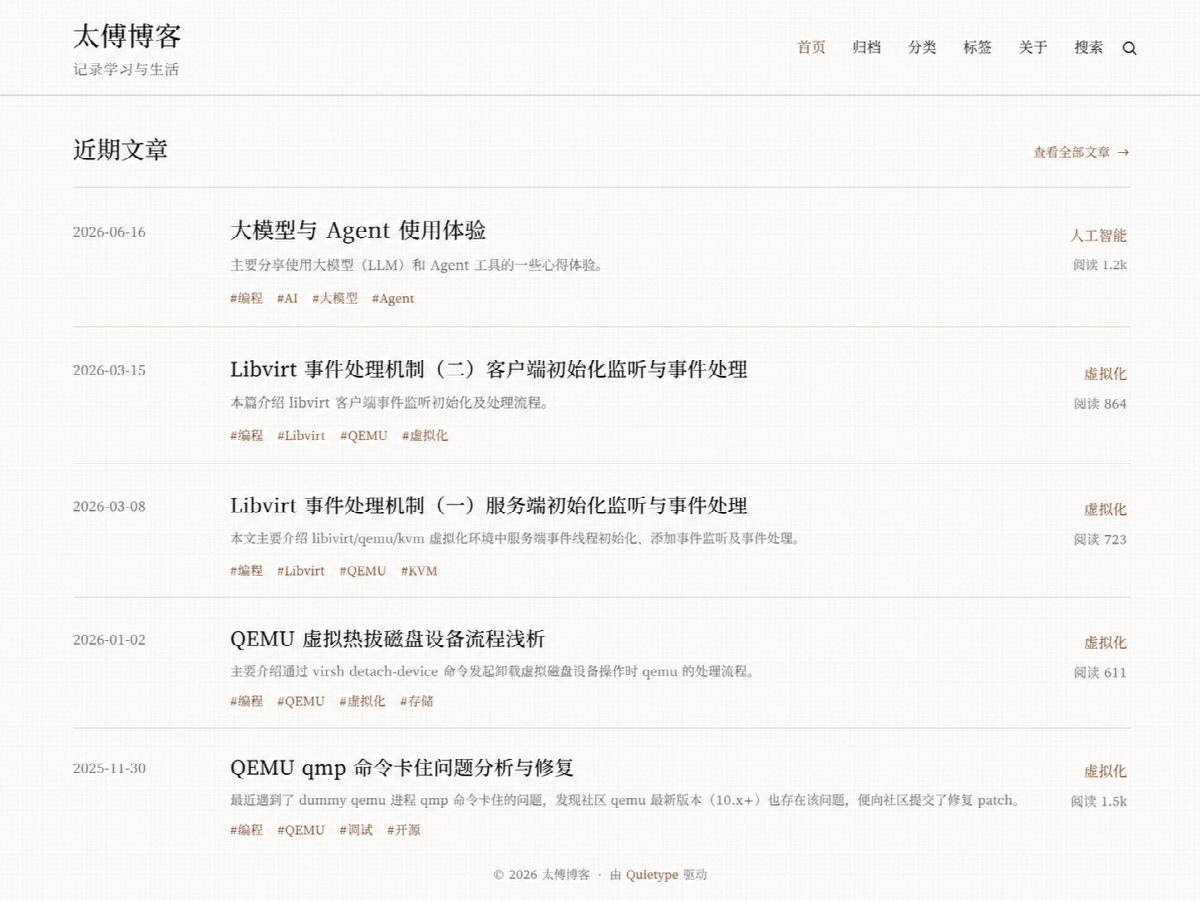
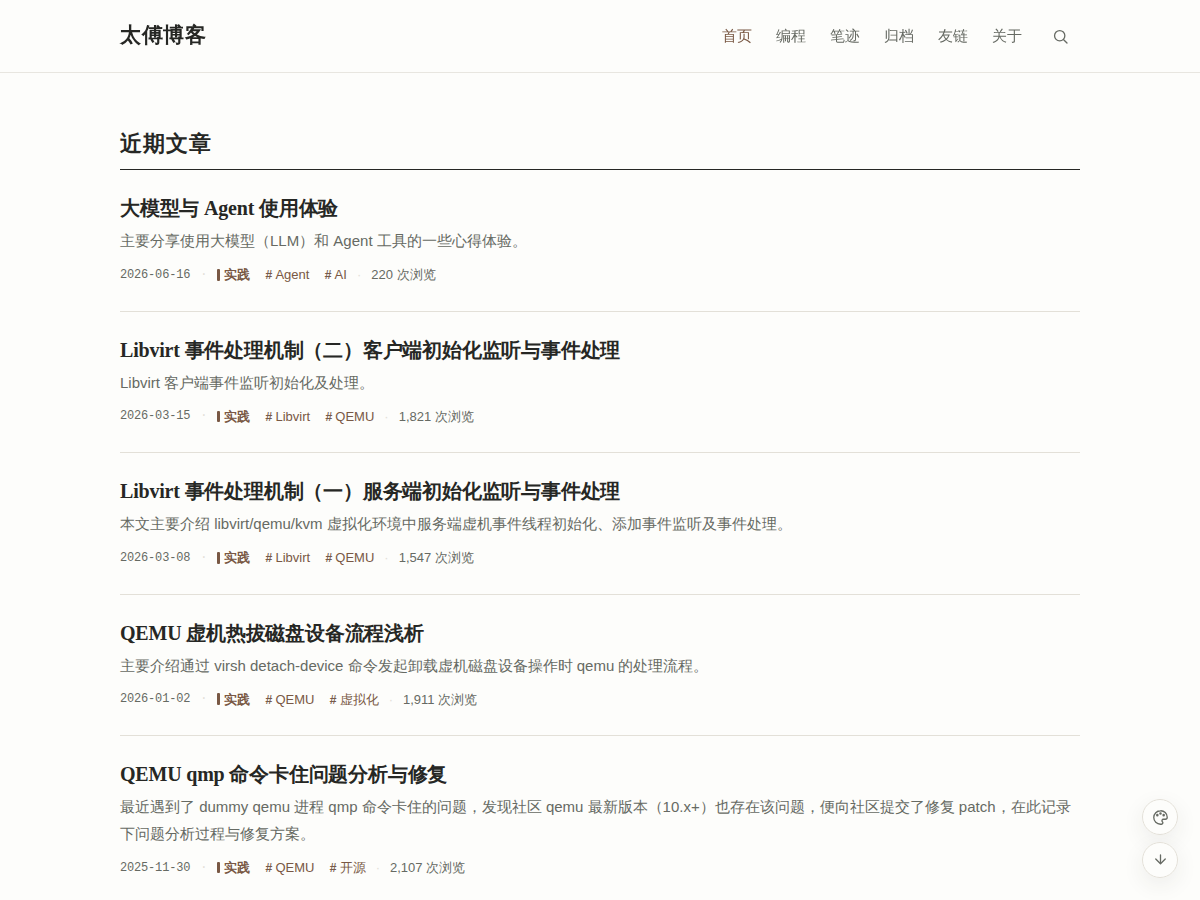
Redraw the map to Quietype
- reorganize the README around design, setup, content, access, and operations
- move code presentation guidance into its proper technical-content section
- replace the outdated preview with the current 0.9.0 homepage at a much smaller size

diff --git a/README.md b/README.md
@@ -2,15 +2,43 @@
 
 > A quiet WordPress theme for thoughtful reading.
 
-Quietype 是一款为中文长文与技术写作设计的经典 WordPress 主题。它以简约、素雅和持续阅读为核心，同时完整处理 Markdown 常见元素、技术文章目录、代码、公式与移动端导航。
+Quietype 是一款面向中文长文与技术写作的经典 WordPress 主题。它以简约、素雅、明亮为设计基调，把排版、导航和交互集中在持续阅读这件事上，同时兼顾 Markdown 技术内容、移动端体验、访问性能与站点管理。
 
 ![Quietype 首页预览](screenshot.png)
 
-## 下载与安装
+## 设计与能力
 
-推荐从 [GitHub Releases](https://github.com/taifuer/quietype/releases) 下载最新的 `quietype-<版本号>.zip`，然后在 WordPress 后台进入“外观 → 主题 → 安装主题 → 上传主题”，选择压缩包并启用。发布包已经包含顶层 `quietype/` 目录，可以直接安装，无需手工改名。
+### 阅读体验
 
-也可以将仓库克隆到 WordPress 主题目录：
+- 800px 长文阅读区与适合中英文混排的系统字体栈
+- 纸白、米杏、浅绿三种亮色背景，选择仅保存在浏览器本地
+- H2/H3 自动目录、章节永久链接、阅读进度和移动端折叠目录
+- 克制的标题层级、段落节奏、分类标签、元信息与打印样式
+- 固定移动 Header、抽屉导航、背景切换和返回顶部工具
+
+### 技术内容
+
+- Markdown 常见元素、KaTeX 公式、表格、脚注与多级列表
+- 自有亮色代码配色、语言标记、行号、复制按钮和横向滚动
+- 图片边框与图注、响应式媒体、懒加载及 PhotoSwipe 图片预览
+- 长链接、行内代码和中英文长标识符的细粒度换行处理
+
+### 站点页面与管理
+
+- 首页、文章、分类、标签、搜索、年度归档、友链、关于与 404
+- 浏览量、评论验证、文章版权声明和友链状态管理
+- 轻量 SEO、SMTP 通知、自定义登录入口与 WordPress 常用优化
+- 键盘焦点、`prefers-reduced-motion` 和基础无障碍支持
+- 不写入主题私有短代码，切换主题不会锁定正文内容
+
+## 环境要求与安装
+
+- WordPress 6.4+
+- PHP 8.0+
+
+推荐从 [GitHub Releases](https://github.com/taifuer/quietype/releases) 下载 `quietype-<版本号>.zip`，在 WordPress 后台进入“外观 → 主题 → 安装主题 → 上传主题”完成安装。发布包已经包含顶层 `quietype/` 目录。
+
+也可以直接克隆到主题目录：
 
 ```bash
 cd wp-content/themes
@@ -19,32 +47,15 @@ git clone git@github.com:taifuer/quietype.git
 
 启用后，WordPress 使用的主题目录标识为 `quietype`。
 
-## 特性
+## 主题配置
 
-- 时间清单式首页，日期、分类、标签与浏览量保持清晰层级
-- 800px 长文阅读区，适配中英文混排的系统字体栈
-- H2/H3 自动目录与章节永久链接、正文阅读进度、移动端折叠目录和阅读工具栏
-- 纸白、米杏、浅绿三种亮色阅读背景
-- 低干扰亮色代码块、语法高亮、复制按钮和表格横向滚动
-- 图片边框、图注、引用、列表、脚注、KaTeX 与响应式媒体样式
-- 可配置的文章末尾 CC BY-NC-SA 4.0 署名与来源声明
-- 正文图片原生懒加载、远程图片宽高缓存和替代文字发布检查
-- 基于 PhotoSwipe 的图片预览，支持按钮、滚轮、双击和触屏缩放
-- 分类、标签、搜索、年度归档、友链、关于、评论与 404 页面
-- 友链状态管理、分批可达性检查与人工确认的失联标记
-- 与前台一致的登录、找回密码和重置密码界面
-- 固定移动 Header、抽屉菜单、遮罩关闭与返回顶部
-- 打印样式、键盘焦点与 `prefers-reduced-motion` 支持
-- 不写入主题私有短代码，避免内容锁定
+### 设置入口
 
-## 环境要求
+Quietype 自有选项集中在“外观 → Quietype 设置”，包括站点与页脚、文章版权声明、SEO、访问、WordPress 优化、登录安全、SMTP 通知和自定义代码。站点标题、菜单和额外 CSS 继续使用 WordPress 原生界面；旧版本保存在 Customizer 中的 Quietype 设置会自动迁移。
 
-- WordPress 6.4+
-- PHP 8.0+
+统计脚本、站点验证代码等可分别写入 Head 或 Footer。设置页使用 WordPress 自带代码编辑器，只有具备 `unfiltered_html` 权限的管理员可以保存可执行代码；样式仍建议使用“外观 → 自定义 → 额外 CSS”。
 
-主题可独立使用。WP Editor.md、KaTeX 和 Prism 的兼容处理用于已有 Markdown 技术博客，并不是主题运行的强制依赖。Quietype 会检查当前正文，仅在确实存在代码、公式、图片或图表时保留对应资源；普通页面和纯文本文章不会加载整套编辑器前端依赖。
-
-## 菜单与页面
+### 菜单与页面模板
 
 主题提供两个菜单位置：
 
@@ -53,44 +64,50 @@ git clone git@github.com:taifuer/quietype.git
 
 内置页面模板：
 
-- `template-archives.php`：年度文章归档
+- `template-archives.php`：年度文章归档与标签汇总
 - `template-links.php`：友情链接
-- `list-archive.php`：兼容归档模板
-- `list-tag.php`：兼容旧站曾分配的标签模板；标签入口已整合进文章归档
+- `list-archive.php`：兼容旧归档模板
+- `list-tag.php`：兼容旧标签模板；标签入口已整合进文章归档
 
-普通页面、分类、标签、搜索和 404 使用 WordPress 模板层级自动匹配。
+普通页面、分类、标签、搜索和 404 按 WordPress 模板层级自动匹配。
 
-## 阅读背景
+### 阅读背景
 
 背景选择保存在浏览器 `localStorage` 的 `quietype-reading-bg` 中，不写 Cookie 或数据库：
 
 - `paper`：纸白
-- `warm`：米白
+- `warm`：米杏
 - `green`：浅绿
 
 Quietype 目前只提供亮色阅读背景。
 
-Quietype 自有配置集中在“外观 → Quietype 设置”，包括页脚联系方式与备案号、文章版权声明、SEO、国内访问、WordPress 优化、登录安全、SMTP 通知和自定义代码。WordPress 原生的站点标题、菜单和额外 CSS 仍使用各自原生界面。旧版本保存在 Customizer 中的 Quietype 配置会自动迁移。
+### 友链状态
 
-统计脚本和站点验证代码可在“外观 → Quietype 设置”中分别添加到 Head 或 Footer。该页面使用 WordPress 自带代码编辑器，避免脚本在 Customizer 实时预览中意外执行。只有具备 `unfiltered_html` 权限的管理员可以保存可执行代码；样式仍建议优先使用 WordPress 原生“额外 CSS”。
+主题启用期间会恢复 WordPress 原生“链接”管理入口，并提供友链状态、分组顺序和可达性检测。前台按照后台创建的链接分类动态分组，空分类不显示；“链接分类”中的数字顺序越小越靠前，留空时按名称排列，主题不写死站点专属分类。
 
-## 友链状态
+每天可轮换检测至多五条可见友链。连续失败三次只进入后台“待确认”，不会自动在前台标记失联；管理员确认后才显示低调角标，恢复为“正常”即可移除。检测结果保存在 WordPress Options 中，不修改核心链接表。
 
-Quietype 启用期间会恢复 WordPress 原生“链接”管理入口，并为站点管理员提供友链管理权限，不永久修改角色数据。链接编辑页包含 Quietype 状态框，可将友链设为正常、待确认或失联，也可立即执行一次安全的公网 HTTP(S) 检测。前台按后台创建的链接分类动态分组，空分类不显示；“链接分类”编辑页可填写数字显示顺序，数字越小越靠前，留空则按分类名称排列。主题不包含站点专属分类名称。
+## 内容渲染与代码呈现
 
-主题默认每天轮换检测至多五条可见友链；连续失败三次仅进入后台“待确认”，不会自动在前台显示失联。管理员确认并保存“失联”后，友链卡片才显示低调角标；恢复为“正常”即可移除。
+主题通过标准 `the_content` 渲染文章，不修改编辑器保存的 Markdown 原文。WP Editor.md、KaTeX 和 Prism 都不是运行主题的强制依赖；使用 WP Editor.md 时，Markdown 仍保存在 `post_content_filtered`，Quietype 只处理最终前台输出。
 
-检测开关位于“外观 → Quietype 设置 → 站点与页脚”。状态保存在 WordPress Options 中，不修改核心链接表；切换主题后数据仍保留，但其他主题不会展示 Quietype 状态。
+文章目录根据渲染后的 H2/H3 自动生成，章节锚点不会写回数据库。存在 Prism 时，它只负责语法解析、语言标记与行号；代码块的亮色 token 配色、语言标签和中文复制按钮由 Quietype 提供，不依赖远程代码样式或 ClipboardJS CDN。
+
+Quietype 会检查当前正文，只在确实存在代码、公式、图表或图片时保留相关资源；普通页面和纯文本文章不会加载整套编辑器前端依赖。
 
 ## SEO
 
-主题在没有检测到 Yoast SEO、Rank Math、All in One SEO、SEOPress 或 The SEO Framework 时输出轻量元数据：description、keywords、Open Graph、社交摘要和 Schema.org JSON-LD。文章描述按“文章 SEO 自定义描述 → 手工摘要 → 自动摘要”取值，关键词按“文章 SEO 自定义关键词 → 标签 → 分类 → 站点关键词”取值。社交图片按“特色图 → 第一张正文图片 → 默认分享图”取值。文章和页面编辑页中的“Quietype SEO”区域可以覆盖自动结果。
+未检测到 Yoast SEO、Rank Math、All in One SEO、SEOPress 或 The SEO Framework 时，Quietype 输出轻量的 description、keywords、Open Graph、社交摘要和 Schema.org JSON-LD；启用专用 SEO 插件后会停止输出整组元数据，避免重复。
 
-后台可填写站点级描述和关键词。`meta keywords` 对主流搜索引擎的作用已经很小，只作为兼容字段保留；描述、规范标题、结构化数据和可读内容更重要。启用专用 SEO 插件后，Quietype 会停止输出整组 SEO 元数据，避免重复。
+文章描述按“自定义描述 → 手工摘要 → 自动摘要”取值，关键词按“自定义关键词 → 标签 → 分类 → 站点关键词”取值，社交图片按“特色图 → 第一张正文图片 → 默认分享图”取值。文章与页面编辑页中的“Quietype SEO”区域可以覆盖自动结果。
 
-## 中国大陆访问优化
+`meta keywords` 对主流搜索引擎作用有限，仅作为兼容字段保留；规范标题、描述、结构化数据和可读内容更重要。
 
-评论头像默认将 WordPress 生成的 Gravatar 地址替换为 `https://gravatar.loli.net/avatar/`，不修改用户或评论数据。可在“外观 → Quietype 设置”中修改地址或留空以保留 WordPress 原始地址；开发者也可继续通过过滤器覆盖：
+## 访问优化
+
+主题不加载网络字体，PhotoSwipe 随主题本地分发，正文相关资源按内容条件保留。图片支持原生懒加载、远程尺寸缓存和替代文字发布检查，减少布局偏移与无效请求。
+
+评论头像默认将 WordPress 生成的 Gravatar 地址替换为 `https://gravatar.loli.net/avatar/`。可在“外观 → Quietype 设置 → 访问”中修改，留空则使用 WordPress 原始地址；开发者也可以通过过滤器覆盖：
 
 ```php
 add_filter( 'quietype_avatar_base_url', function () {
@@ -98,47 +115,37 @@ add_filter( 'quietype_avatar_base_url', function () {
 } );
 ```
 
-Prism 只负责语法解析、语言标记和行号；Quietype 内置亮色 token 配色与中文复制按钮，不依赖远程代码样式或剪贴板 CDN。
+## 登录、评论与安全
 
-## 登录入口与安全
+Quietype 重设登录、找回密码和密码重置页面的视觉样式，并可启用自定义入口参数、一次性算术验证码和 XML-RPC 认证保护。参数名为 `entry`、参数值为至少 24 位私有随机字符串时，初始入口形如 `wp-login.php?entry=<私有值>`；校验成功后会换取 12 小时、HttpOnly、SameSite 的签名 Cookie，并跳转到不含入口值的地址。
 
-Quietype 会重设 WordPress 登录相关页面的视觉样式，并可在“外观 → Quietype 设置 → 安全”中启用自定义入口参数、一次性算术验证码和 XML-RPC 认证保护。例如参数名为 `entry`、参数值为一个至少 24 位的私有随机字符串时，初始入口是 `wp-login.php?entry=<私有值>`；验证成功后主题会换取一个 12 小时、HttpOnly、SameSite 的签名 Cookie，并跳转到不含入口值的登录地址。默认入口、错误参数和未登录的 `/wp-admin/` 均返回 404。请勿将真实入口值写入公开仓库、截图、统计平台或文档。
+入口保护启用后，默认入口、错误参数和未登录的 `/wp-admin/` 返回 404。启用前请保存完整入口地址，不要把真实值写入仓库、截图或统计平台。需要文件级配置时，可在 `wp-config.php` 定义 `QUIETYPE_LOGIN_GATE_KEY` 和 `QUIETYPE_LOGIN_GATE_VALUE`，常量优先于后台字段。
 
-启用前请先保存完整入口地址。参数值留空时入口保护保持关闭；需要文件级配置时，也可以在 `wp-config.php` 中定义 `QUIETYPE_LOGIN_GATE_KEY` 和 `QUIETYPE_LOGIN_GATE_VALUE`，常量优先于后台字段。找回密码、密码重置、退出登录和 WordPress 签名恢复链接均保留兼容处理。
-
-验证码和入口保护默认关闭，需由站点管理员明确启用。若站点不使用 WordPress App 或旧式远程发布，可以同时关闭 XML-RPC 认证与 Pingback，避免它绕过网页验证码。隐藏入口和简单验证码主要用于降低自动扫描噪声，不能替代强密码、双重验证和服务器限速。由于入口功能由主题提供，切换主题会恢复 WordPress 默认登录行为。
-
-公开评论使用十分钟有效、提交后立即作废的四位数字验证，并配有蜜罐和短时提交节流。服务器仍应对登录、评论和 XML-RPC 配置独立频率限制。
+公开评论使用十分钟有效、提交后立即作废的四位数字验证，并配有蜜罐和短时提交节流。隐藏入口和简单验证码用于减少自动扫描与垃圾提交，不能替代强密码、双重验证和服务器限速；切换主题会恢复 WordPress 默认登录行为。
 
 ## SMTP 与通知
 
-“外观 → Quietype 设置 → 邮件”可以让 WordPress 内置 `wp_mail()` 使用 SMTP，并发送测试邮件。支持 TLS、SMTPS 和无加密连接、可选身份验证、自定义发件地址，以及管理员成功登录和新评论通知。Quietype 自有通知使用无外部资源的响应式 HTML 模板，并在邮件底部明确标注系统自动发出、无需回复。登录通知仅针对拥有站点管理权限的账户并设有五分钟防重复；评论通知忽略垃圾评论、Pingback 和 Trackback，也会避开 WordPress 已发送给同一管理员的通知。
+“外观 → Quietype 设置 → 邮件”可以让 WordPress 内置 `wp_mail()` 使用 SMTP，并发送测试邮件。支持 TLS、SMTPS、无加密连接、可选身份验证、自定义发件地址，以及管理员登录和新评论通知。Quietype 通知使用无外部资源的响应式 HTML 模板。
 
-SMTP 密码会以原值保存在 WordPress 数据库中。优先使用邮箱服务商提供的独立授权码；若不希望密码进入数据库，可在 `wp-config.php` 定义 `QUIETYPE_SMTP_PASSWORD`。设置页会保留最近一次发信错误一天，但不会记录密码。SMTP 只负责把邮件交给服务器，正式使用前仍应配置 SPF、DKIM 和 DMARC，并通过测试邮件确认投递。
+SMTP 密码以原值保存在 WordPress 数据库中，建议使用邮箱服务商提供的独立授权码；也可以在 `wp-config.php` 定义 `QUIETYPE_SMTP_PASSWORD`。正式使用前还应配置 SPF、DKIM 与 DMARC，并通过测试邮件确认投递。
 
 ## WordPress 优化
 
-“外观 → Quietype 设置 → WordPress”可以隐藏登录用户在网站前台看到的管理工具栏，以及停止为文章和页面创建新的历史版本；后台工具栏和自动保存不受影响。历史版本开关不会静默删除已有数据，需要管理员在同一设置页核对数量并单独确认删除。
-
-## 内容兼容
-
-主题通过标准 `the_content` 渲染文章，不修改编辑器保存的 Markdown 原文。对于 WP Editor.md，Markdown 仍保存在 `post_content_filtered`，主题只负责前台输出样式。
-
-文章目录由渲染后的 H2/H3 自动生成，不要求修改历史文章，也不会把锚点写回数据库。
+“外观 → Quietype 设置 → WordPress”可以隐藏登录用户在前台看到的管理工具栏，并停止为文章和页面创建新的历史版本；后台工具栏和自动保存不受影响。已有历史版本不会被静默删除，需要管理员核对数量后单独确认。
 
 ## 开发与自动化回归
 
-当前主题没有前端构建步骤。修改 PHP、CSS 或 JavaScript 后，可直接在本地 WordPress 环境中预览。仓库同时提供独立于真实博客数据的自动化回归环境；运行它需要 Node.js 22、Docker Compose 和 Chromium 所需的系统依赖。
+主题没有前端构建步骤。修改 PHP、CSS 或 JavaScript 后可以直接在本地 WordPress 中预览。仓库提供独立于真实博客数据的自动化回归环境，运行它需要 Node.js 22、Docker Compose 和 Chromium 所需系统依赖。
 
-- 根目录 PHP 文件：WordPress 模板层级与主题功能
-- `template-parts/`：可复用的文章列表组件
-- `assets/js/`：交互逻辑与图片预览
-- `assets/vendor/`：随主题分发的第三方前端依赖及许可证
+- 根目录 PHP 文件：WordPress 模板和主题功能
+- `template-parts/`：文章列表组件
+- `assets/js/`：主题交互与图片预览
+- `assets/vendor/`：随主题分发的第三方依赖及许可证
 - `style.css`：主题声明与前台样式
 - `theme.json`：编辑器基础设置
-- `screenshot.png`：WordPress 后台主题预览图
-- `tests/`：固定 WordPress 种子内容、浏览器测试与桌面/移动视觉基线
-- `.github/workflows/quality.yml`：PHP 兼容性和完整浏览器质量门禁
+- `screenshot.png`：README 与 WordPress 后台主题预览图
+- `tests/`：固定种子内容、浏览器测试和桌面/移动视觉基线
+- `.github/workflows/quality.yml`：PHP 兼容性与浏览器质量门禁
 
 首次运行：
 
@@ -152,26 +159,16 @@ npm run test:performance
 npm run env:stop
 ```
 
-测试站默认使用 `http://localhost:8888`，停止时会删除它的 WordPress 和数据库卷，不读取或修改现有博客。Playwright 覆盖首页、文章、归档、友链、关于、搜索和 404，检查控制台错误、关键交互、结构化 HTML、axe 严重无障碍问题，以及 390px/1440px 的已批准截图。Lighthouse 对首页和代表文章执行两轮性能、无障碍、最佳实践、SEO 与资源体积预算。
+测试站默认使用 `http://localhost:8888`，停止时会删除测试 WordPress 与数据库卷，不读取真实博客。Playwright 覆盖首页、文章、归档、友链、关于、搜索和 404，并检查控制台错误、关键交互、HTML 结构、axe 严重无障碍问题及 390px/1440px 视觉基线。Lighthouse 检查首页与代表文章的性能、无障碍、最佳实践、SEO 和资源体积预算。
 
-只有在确认视觉变化符合预期时才更新基线：
+只有确认视觉变化符合预期时才更新基线：
 
 ```bash
 npm run test:e2e:update
 ```
 
-失败截图、trace、HTML 报告和 Lighthouse 报告输出到 `artifacts/`；GitHub Actions 会保留这些文件 14 天。
-
-发布前建议至少回归以下内容：
-
-- 长代码与中文注释
-- 公式、表格和嵌套列表
-- 多图、宽图、图注和历史 HTML
-- 360px、390px、768px、1280px 与 1440px 布局
-- 键盘导航、打印和关闭 JavaScript 后的正文可用性
+失败截图、trace、HTML 报告和 Lighthouse 报告输出到 `artifacts/`，GitHub Actions 保留这些文件 14 天。
 
 ## 许可证
 
-Quietype 基于 [GNU General Public License v2 or later](LICENSE.txt) 发布。
-
-主题内置的 PhotoSwipe 5.4.4 依据其 [MIT License](assets/vendor/photoswipe/LICENSE) 分发。
+Quietype 基于 [GNU General Public License v2 or later](LICENSE.txt) 发布。主题内置 PhotoSwipe 5.4.4，并依据其 [MIT License](assets/vendor/photoswipe/LICENSE) 分发。
